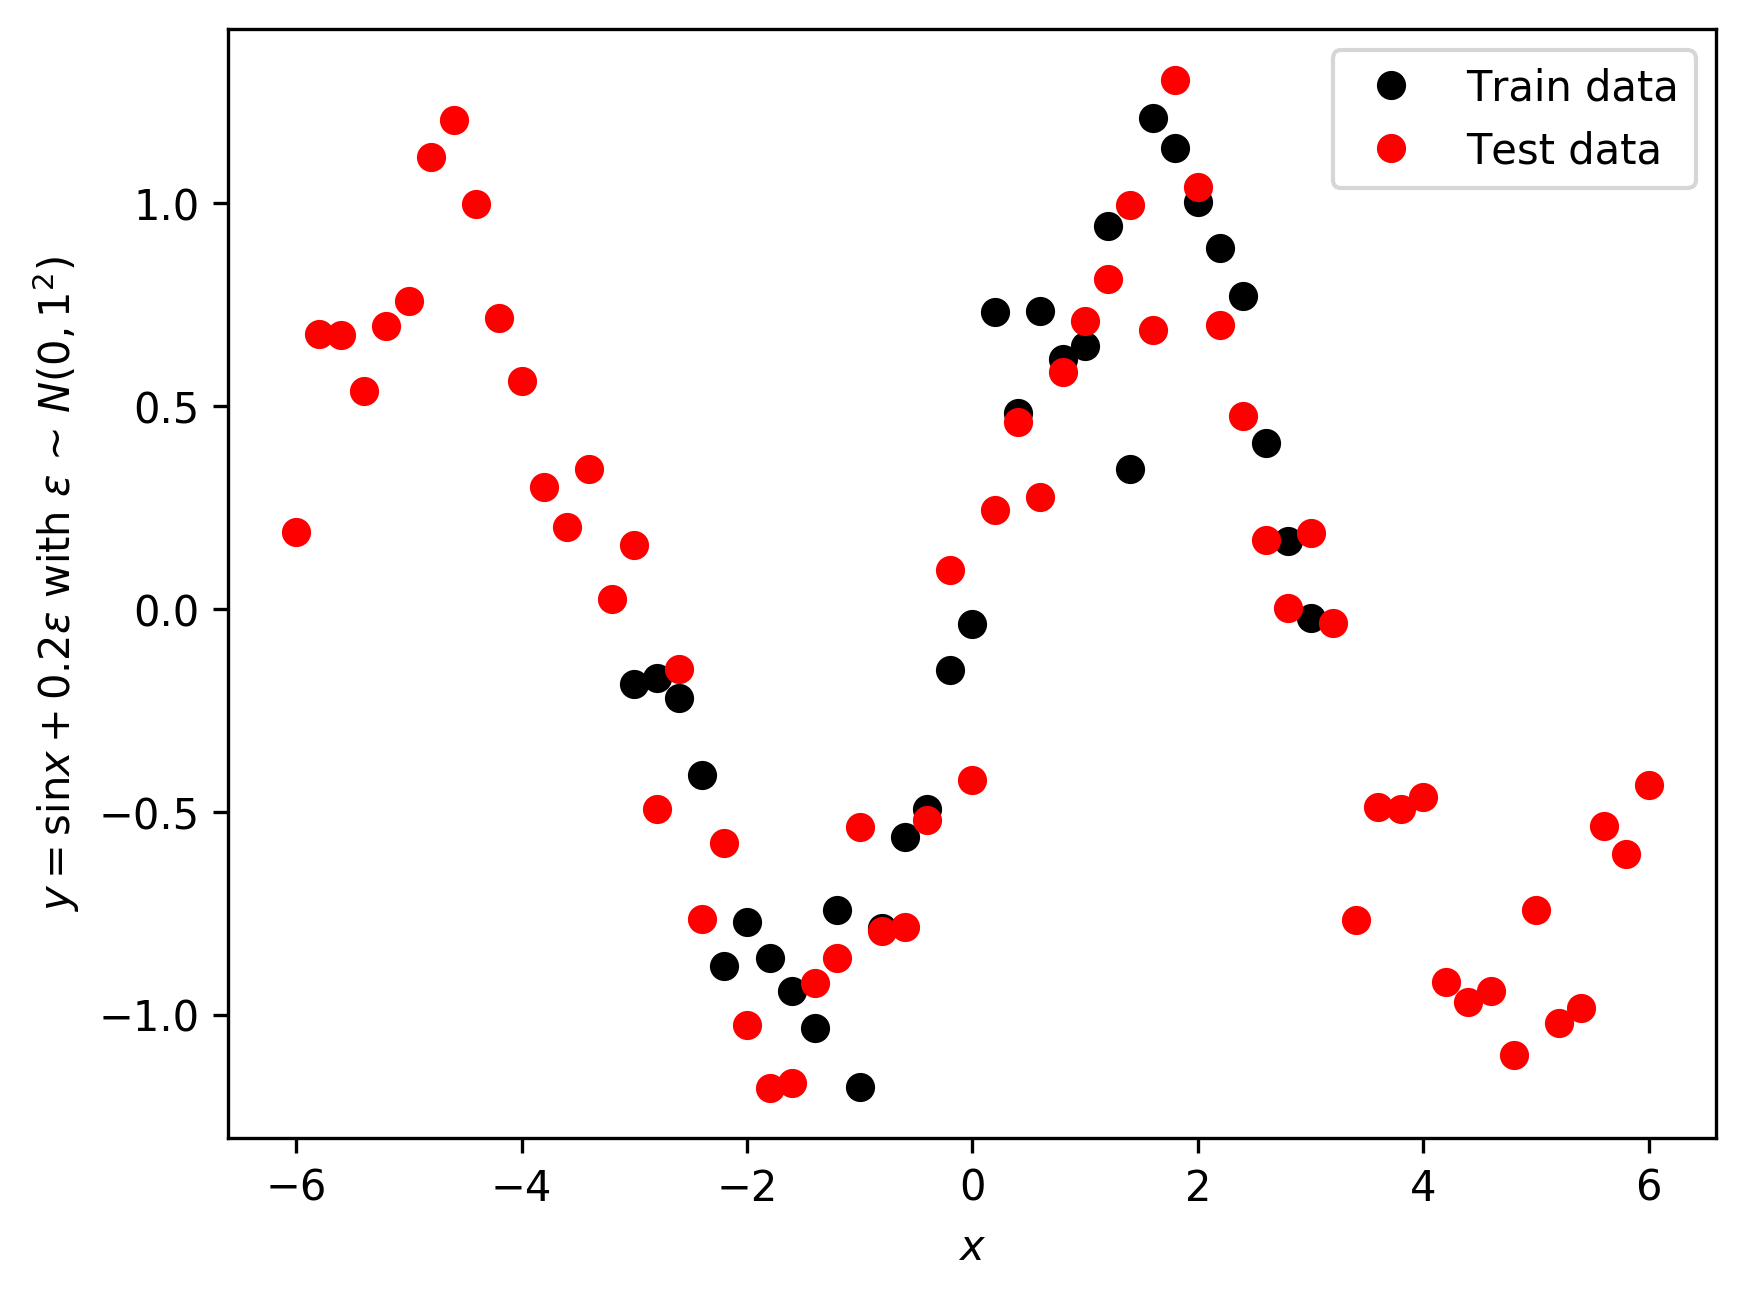
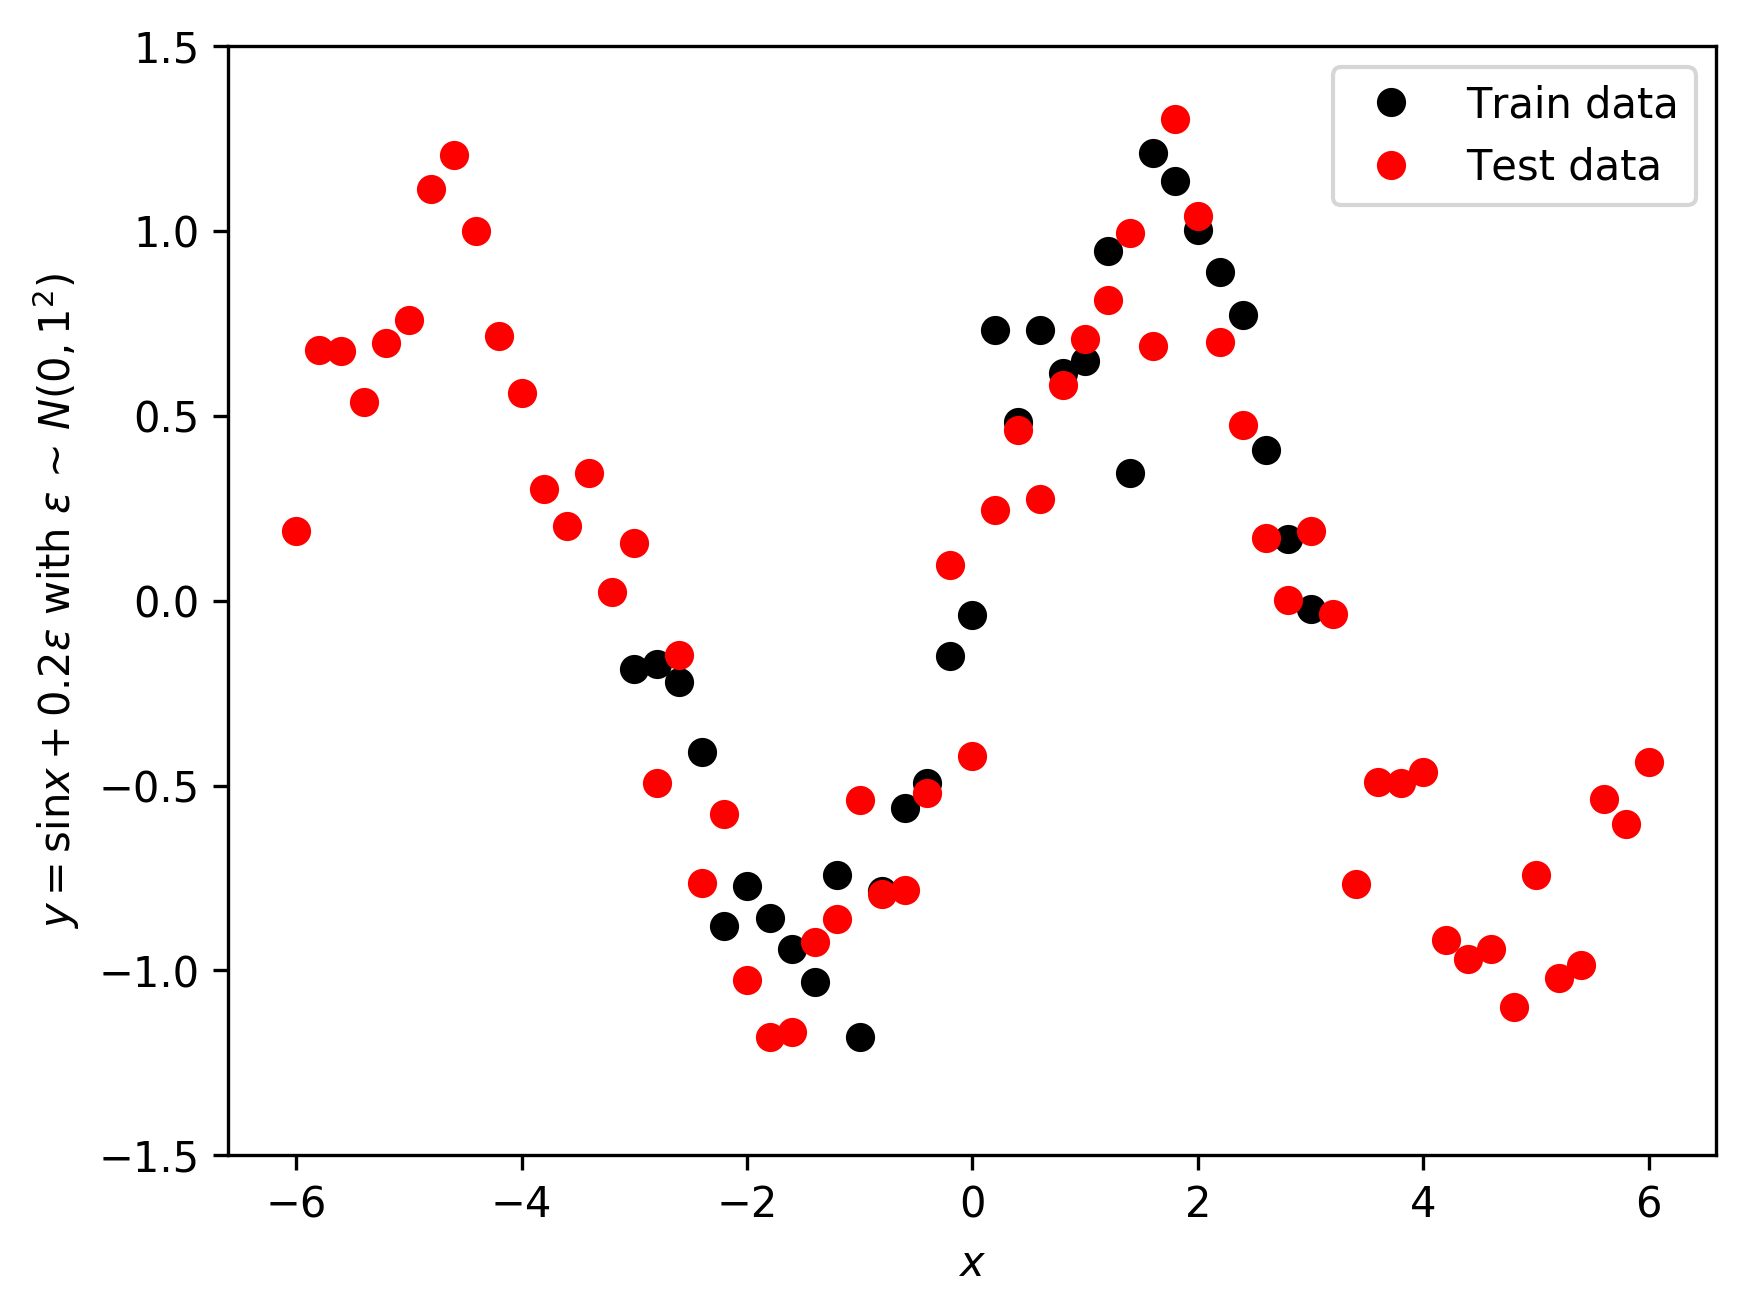
Homeworks

diff --git a/homeworks.py b/homeworks.py
@@ -17,7 +17,7 @@ class MLP:
 
         self.predictions, self.loss, self.opt = self.build_graph(n_hidden=self.n_hidden, n_output=self.n_output)
 
-    def build_graph(self, n_hidden=512, n_output=10):
+    def build_graph(self, n_hidden=30, n_output=1):
         """
         Build computational graph for toy dataset with dropout
 
@@ -63,7 +63,7 @@ class MLP:
             predictions = tf.matmul(h2, wo) + bo
             
             # we don't need probability --> just regression problems
-            #prob = tf.nn.softmax(logit, axis=1)
+            # prob = tf.nn.softmax(logit, axis=1)
             # loss
             #loss = tf.reduce_mean(tf.nn.softmax_cross_entropy_with_logits_v2(
             #    logits=logit, labels=self.y))
@@ -104,33 +104,34 @@ plt.xlabel("$x$")
 plt.ylabel("$y = \sin x + 0.2 \epsilon$ with $\epsilon$ ~ $N(0,1^2)$")
 plt.plot(x_train, y_train, 'bo', color='black', label="Train data")
 plt.plot(x_test, y_test, 'bo', color='red', label="Test data")
+plt.ylim([-1.5, 1.5])
 plt.legend(loc='best')
 plt.savefig("data_statistics.png", bbox_inches="tight", dpi=300)
 plt.close()
 
-def train(net, sess, num_epoch=100):
+def train(net, sess, num_epoch=3000):
     # iterating epoch
     for epoch in range(num_epoch):
         # here we use batch gradient descent since the data size is small!!
         feed_dict = {net.x: x_train,
                      net.y: y_train,
-                     net.dropout_rate: 0.3,
-                     net.lr: 1e-3}
+                     net.dropout_rate: 0.2,
+                     net.lr: 1e-2}
         avg_loss, _ = sess.run([net.loss, net.opt], feed_dict=feed_dict)
         print ('Epoch: ', '%04d' % (epoch + 1), 'cost =', '{:.9f}'.format(avg_loss))
     print ("Learning finished")
     return
 
-def evaluate(net, sess, T=30):
+def evaluate(net, sess, T=50):
     repeat_predictions = []
     for i in range(T):
         repeat_predictions.append(sess.run(net.predictions, feed_dict={net.x: x_test,
                                                                        net.y: y_test,
-                                                                       net.dropout_rate: 0.3}))
+                                                                       net.dropout_rate: 0.2}))
     """
     Important thing!!
 
-    Here, repeat prediction has size of (T, 61, 1)
+    Here, repeat prediction has size of (T, num, 1)
     T: How many runs for measuring uncertainty?
     61: the number of test data samples
     1: dimensions of outputs
@@ -142,9 +143,14 @@ repeat_predictions = evaluate(mlp, sess)
 repeat_predictions = np.array(repeat_predictions)
 
 # mean, std calculations
-mean = []
-std = []
+# TODO: compute mean & std
+mean = np.mean(repeat_predictions, axis=0)
+std = np.std(repeat_predictions, axis=0)
 
 # MC dropout uncertainty figure
 plt.figure()
-
+plt.plot(x_test, mean, color='red', lw=0.1)
+plt.plot(x_test, mean - std, color='red', lw=0.1, alpha=0.5)
+plt.plot(x_test, mean + std, color='red', lw=0.1, alpha=0.5)
+plt.ylim([-1.5, 1.5])
+plt.savefig("predictions.png", bbox_inches="tight", dpi=300)
